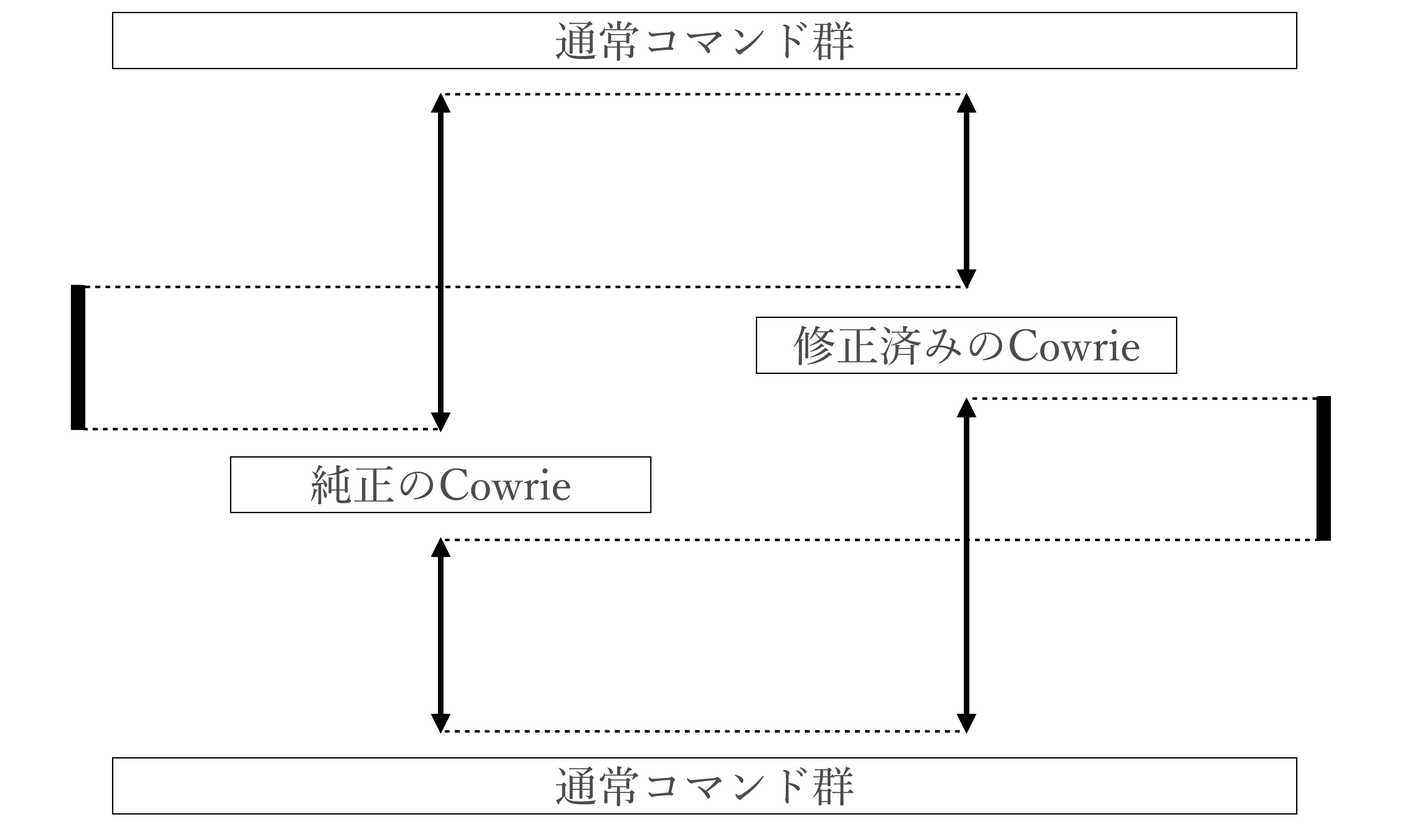
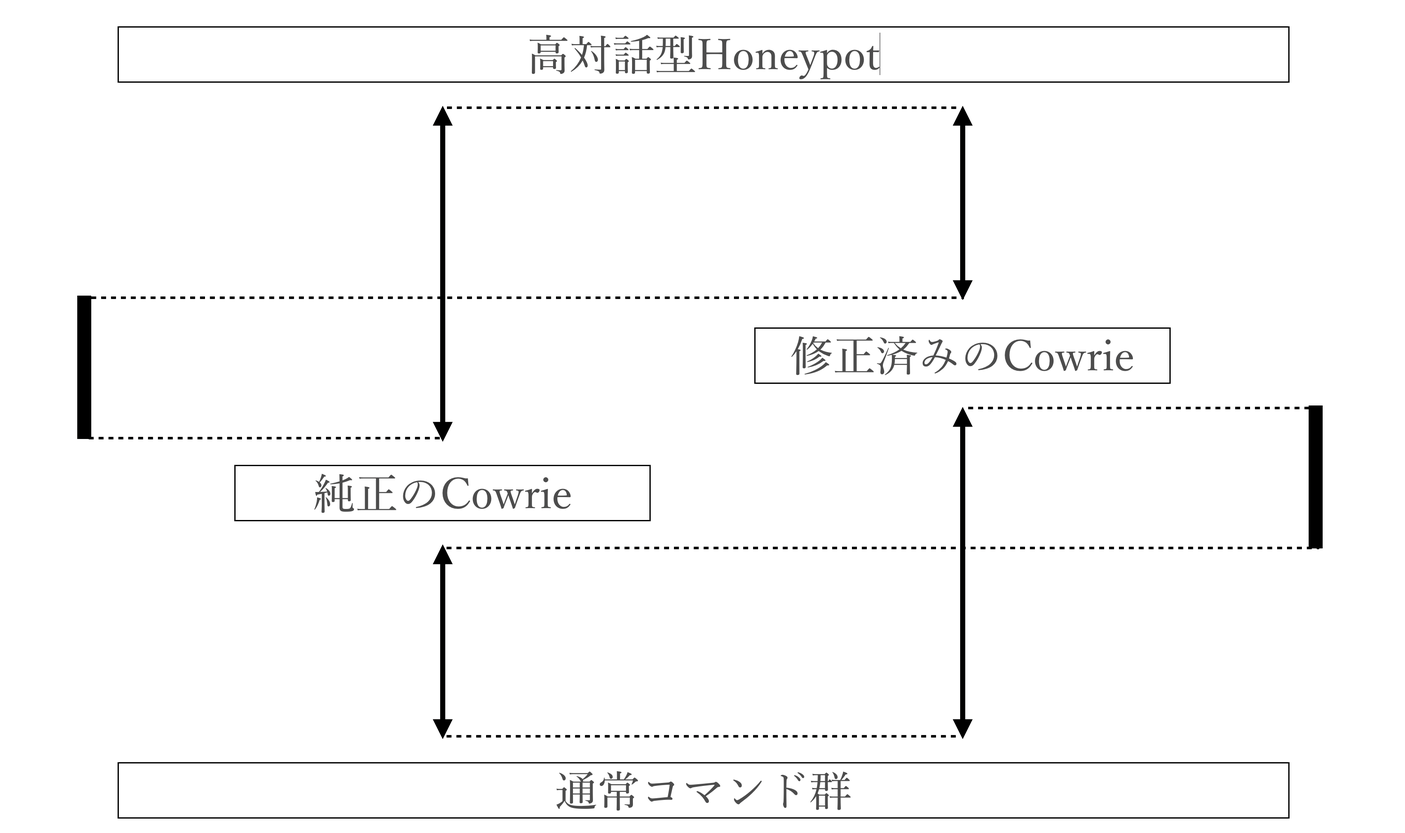
仮綴done.

Changed region(s): [[0.0311, 0.0, 0.9647, 0.9866]]

diff --git a/src/7_eval.tex b/src/7_eval.tex
@@ -6,8 +6,8 @@
 \section{予備実験}
 \label{eval:first}
 
-\subsection{概要}
-\label{eval:abst}
+%\subsection{概要}
+%\label{eval:abst}
 SSHの低対話型HoneypotであるCowrieはコマンドの実装数が少なく，Cowrie特有の異常な挙動が多い．そのため，侵入者にHoneypotであると検知されることで，本来実際のOSへの攻撃であれば取れるはずであった侵入ログが取れない問題がある．また，収集ログを分析する際に，これまで用いられてきた"危険なコマンド"としてインデックスを作り，それらを危険なコマンドとしてパターンマッチングする手法では，今後出現してくる様々なコマンドパターンなどに対応できない．\\
 予備実験では，Cowrieはコマンドの実装数が少なく，Cowrie特有の異常な挙動が多いため，コマンドの追加実装を行い，Cowrie特有の異常な挙動を修正した．実装を施していない純正のCowrieとCowrieにBusyBoxに含まれるコマンドを実装した修正済みのCowrieの両方でコマンドログの収集を行い，比較することで，収集ログのパターンの変化を観測できるのではないかと考えた．評価として収集した二つのログをSkip-gramモデルを用いてスコアリングし，どちらがより多くのコマンドログのパターンを収集できているのかを検証した．\\
 その結果，より多くのコマンドパターンを取れたのがCowrieにBusyBoxに含まれるコマンドを実装した修正済みのCowrieであるということが明らかとなった．
@@ -26,12 +26,12 @@ SSHの低対話型HoneypotであるCowrieはコマンドの実装数が少なく
 
 \subsection{評価}
 \label{eval:eval}
-実装を施していない純正のCowrieとCowrieにBusyBoxに含まれるコマンドを実装した修正済みのCowrieの両方で侵入ログの収集を行い，Word2vecのSkip-Gram Modelにより次のコマンドの予測，スコアリングを行い比較を行うことで，差異を評価した．スコアリングでは，あるコマンドが実行された時に次のコマンドの出やすさを予測したため，次に実行されるコマンドがスコアとして高い数値を出せばそのコマンドパターンがパターンとして存在しやすいもであることを示す．予備実験の評価に関しては第7章の評価で一部説明している．
-本研究の評価と違う評価手法としては，モデル化を純正のHoneypotにBusyBoxに含まれるコマンドを実装したものしか行っていないため，実際のOSに近いログが取れたことが証明できておらず，比較する対象が少なかった．
+実装を施していない純正のCowrieとCowrieにBusyBoxに含まれるコマンドを実装した修正済みのCowrieの両方で侵入ログの収集を行い，Word2vecのSkip-Gram Modelにより次のコマンドの予測，スコアリングを行い比較を行うことで，差異を評価した．スコアリングでは，あるコマンドが実行された時に次のコマンドの出やすさを予測したため，次に実行されるコマンドがスコアとして高い数値を出せばそのコマンドパターンがパターンとして存在しやすいものであることを示す．予備実験の評価に関しては第7章の評価で一部説明している．
+本研究の評価と評価手法の違いは，モデル化を純正のHoneypotにBusyBoxに含まれるコマンドを実装したものしか行っていないため，実際のOSに近いログが取れたことが証明できておらず，比較する対象が少なかった．
 
 \subsection{結果}
 \label{eval:conc}
-SSHの低対話型Honeypotの稼働期間は12/10から2/1(54日間)で，収集できたものとしてコネクション数，パターン数，コマンド数を以下の図3に記す．
+SSHの低対話型Honeypotの稼働期間は12/10から2/1(54日間)で，収集できたものとしてコネクション数，パターン数，コマンド数を以下の図6.1に記す．
 
 \begin{figure}[H]
     \centering
@@ -40,7 +40,7 @@ SSHの低対話型Honeypotの稼働期間は12/10から2/1(54日間)で，収集
     \label{fig:evo}
 \end{figure}
 
-また，モデル化を行い純正のCowrieとCowrieにBusyBoxに含まれるコマンドを実装した修正済みのCowrieのスコアリングを行なった結果を以下の図4に記す．
+また，モデル化を行い純正のCowrieとCowrieにBusyBoxに含まれるコマンドを実装した修正済みのCowrieのスコアリングを行なった結果を以下の図6.2に記す．横軸はコマンド拡張を行なったHoneypotか素のHoneypotであるかを示している．縦軸は予備実験の評価手法によって算出されたコマンドの表れやすさを数値化したものであり，数値が高くなればのコマンドパターンがパターンとして存在しやすいものであることを示している．予備実験ではコマンドの拡張実装をしたものの方がコマンドパターンとして存在しにくいものを観測できたという結果になった．
 
 \begin{figure}[H]
     \centering
@@ -55,7 +55,7 @@ SSHの低対話型Honeypotの稼働期間は12/10から2/1(54日間)で，収集
 \section{評価手法}
 \label{eval:eval}
 
-本実験システムの評価として，~\ref{appr:YotenForProblem}節で述べた要件に対して評価を行う．\\
+本研究の仮説の検証手法としての評価として，~\ref{appr:YotenForProblem}節で述べた要件に対して評価を行う．\\
 予備実験では，素の低対話型Honeypotよりも，コマンドを拡張したHoneypotの方がコマンドパターンが多く収集できることを示した．本研究では拡張したHoneypotで収集したコマンドログが，どれほど高対話型Honeypotで収集したコマンドログに近似したのかを評価した．\\
 本研究では，以下の三種類のHoneypotを設置する．\\
 1． 広く利用されているSSHの低対話型Honeypot\\
@@ -64,10 +64,9 @@ SSHの低対話型Honeypotの稼働期間は12/10から2/1(54日間)で，収集
 
 これ以降，1．の広く利用されているSSHの低対話型Honeypotのことを”純正の低対話型Honeypot” ， 2．の実際のShellには実装されているが，1．のHoneypotで未実装のコマンドを実装したHoneypotのことを"修正済みの低対話型Honeypot" ， 3．の広く利用されている高対話型Honeypotのことを"高対話型Honeypot"と呼ぶこととする．\\
 
-以上3つの純正のHoneypot，修正済みのHoneypot，高対話型Honneypotのそれぞれで侵入ログを収集する．\\
+%以上3つの純正のHoneypot，修正済みのHoneypot，高対話型Honneypotのそれぞれで侵入ログを収集する．\\
 
-また予備実験では，純正のHoneypotに実装されていないコマンドで悪意のある侵入者が使うようなコマンドを実装し，純正のHoneypotで取れた侵入者の実行コマンドログと，修正済みのHoneypotの侵入者の実行コマンドログを比較することで，修正済みのHoneypotの方がコマンドパターンとして多く収集できることを示した．\\
-予備実験における収集ログの比較の概念図を図6に示す．
+また予備実験では，純正のHoneypotに実装されていないコマンドで悪意のある侵入者が使うようなコマンドを実装し，純正のHoneypotで取れた侵入者の実行コマンドログと，修正済みのHoneypotの侵入者の実行コマンドログを比較することで，修正済みのHoneypotの方がコマンドパターンとして多く収集できることを示した．予備実験における収集ログの比較の概念図を図6.3に示す．
 
 \begin{figure}[H]
     \centering
@@ -76,8 +75,7 @@ SSHの低対話型Honeypotの稼働期間は12/10から2/1(54日間)で，収集
     \label{fig:evo}
 \end{figure}
 
-この予備実験では評価として何の追加実装も施していないSSHの低対話型Honeypotで取れた侵入者の実行コマンドログと追加実装を施したSSHの低対話型Honeypotの侵入者の実行コマンドログとを比較したのに対して，本件研究の評価手法では，純正のHoneypotで取れた侵入者の実行コマンドログと修正済みのHoneypotの侵入者の実行コマンドログをと高対話型Honeypotの侵入者の実行コマンドログを比較することで，修正済みのHoneypotの侵入者の実行コマンドログが実際のShellの挙動にどれほど近似したのかを評価した．\\
-予備実験における収集ログの比較の概念図を図7に示す．
+この予備実験では評価として何の追加実装も施していないSSHの低対話型Honeypotで取れた侵入者の実行コマンドログと追加実装を施したSSHの低対話型Honeypotの侵入者の実行コマンドログとを比較したのに対して，本件研究の評価手法では，純正のHoneypotで取れた侵入者の実行コマンドログと修正済みのHoneypotの侵入者の実行コマンドログをと高対話型Honeypotの侵入者の実行コマンドログを比較することで，修正済みのHoneypotの侵入者の実行コマンドログが実際のShellの挙動にどれほど近似したのかを評価した．予備実験における収集ログの比較の概念図を図6.4に示す．
 
 \begin{figure}[H]
     \centering
@@ -86,23 +84,23 @@ SSHの低対話型Honeypotの稼働期間は12/10から2/1(54日間)で，収集
     \label{fig:evo}
 \end{figure}
 
-図6，と図7で示したように，取れた収集ログを比較することでいかに高対話型Honeypotに近似できたのか検証する．
+%図6，と図7で示したように，取れた収集ログを比較することでいかに高対話型Honeypotに近似できたのか検証する．
 
 
-\subsection{評価手法の実装の提案}
+\subsection{コマンドログのスコアリング手法の実装の提案}
 \label{eval:implsuge}
 コマンドログの比較を行う手法は多く存在する．例えば評価基準として，あるコマンドが実行された時に，そのコマンドは危険であるとしたブラックリストを作成するパターンマッチングの手法がある．また，攻撃であるとされたコマンドを~\ref{tech:Markov}で説明したマルコフモデルで学習させることで，攻撃性を表現する手法がある．
 しかしパターンマッチングであれば静的解析であるので未知の攻撃に対応ができず，マルコフモデルであれば現在の状態だけに依存して次の状態への推移確率が決まるので，未知の特徴量を無視してしまうので，いずれも未知の攻撃に対応できない．
 しかし，~\ref{tech:tokei}で説明した意味解析をコマンドログに導入することで，コマンド名が別でも同じような内容のコマンドを実行しようとした時に，それが同じような内容であることを検知できる自然言語処理における意味解析のニューラルネットワークのモデルを評価基準とすることで未知の攻撃にも対応できる．
 そのため，本研究では自然言語処理における意味解析のニューラルネットワークのモデルを評価基準とした．
 
-\subsection{評価手法の実装}
+\subsection{機械学習を用いたコマンドログのスコアリング}
 \label{eval:impl}
 本研究では，評価基準となる，自然言語処理における意味解析のニューラルネットワークのモデルとしてWord2vecのskip-gramモデルを採用した．
 純正の低対話型Honeypotで収集した侵入ログでskip-gramモデルの隠れ層の重みを学習させ(これをモデル1
 とする)，同様にして高対話型Honeypotで収集した侵入ログもskip-gramモデルの隠れ層の重みを学習させる(これをモデル2とする)．次に修正済みのHoneypotで収集したログをセッション開始からセッション終了までに打たれたコマンドごとに(以降これを1セッションごとと呼ぶ)モデル1とモデル2のそれぞれに入力していき，出力された数値aを活性化関数としてソフトマックス関数をかけることで，0≦a≦1の範囲を取るようにし確率的な数値として出力することでスコアリングを行う．このため入力に対して多数存在する出力を全てを合計すると1になる．
 純正の低対話型Honeypotや高対話型Honeypotの収集ログをモデル化する際、入力層として収集ログのコマンドの入力に対してそのコマンドの周辺のコマンドを出力として与えることでこれを学習させる．\\
-例えば3つのコマンドが打たれたとしたとしたものを以下のプログラム\,3に示す．
+例えば3つのコマンドが打たれたとしたとしたものを以下のプログラム\,6.1に示す．
 
 \vspace{5mm}
 %\lstnewenvironment{mylisting}[1][]
@@ -128,7 +126,7 @@ SSHの低対話型Honeypotの稼働期間は12/10から2/1(54日間)で，収集
 
 モデルを構築する際には"free"コマンドを入力にした時に，出力として"uname"コマンド"ps"コマンドを用意しておくことで，freeが入力として与えられた時に他2つの出力される周辺のコマンドが出力する確率が高くなるようにする．また，実装としては周辺語をどこまで広げるのかはパラメータとしてwindow sizeで与えることができ，上記の例の周辺語は"1"であり，window sizeを"2"にすればモデル化する際に出力層に与えられる数は4つとなる．
 
-以下の図8にモデル化のフローを示す．
+以下の図6.5にモデル化のフローを示す．
 \vspace{10mm}
 \begin{figure}[H]
     \centering
@@ -139,7 +137,7 @@ SSHの低対話型Honeypotの稼働期間は12/10から2/1(54日間)で，収集
 \vspace{10mm}
 また，このようにして純正の低対話型Honeypotの収集ログと高対話型Honeypotの収集ログに対して各々のモデルを構築する．次にこのモデルに対して，修正済みのHoneypotで収集したログを入力して，確率的にスコアリングしていくことで数値を出力する．\\
 
-以下にこのモデルを使用した時の入力から出力のフローを図9を示す．
+以下にこのモデルを使用した時の入力から出力のフローを図6.6を示す．
 
 \begin{figure}[H]
     \centering

diff --git a/src/1_intr.tex b/src/1_intr.tex
@@ -9,14 +9,14 @@
 \label{intr:back}
 PCの普及やIoTデバイスのシステム高度化により，高度な処理系を組むことが可能になった．これによりデバイス上にLinux系などのOSが搭載された機器が広く人々に使われるようになった．また，Linux系OSにリモートログインする手法としてSSHがある．これを用いて不正に侵入する攻撃が行われている．
 
-\section{honeypot}
+\subsection{honeypot}
 \label{intr:honey}
  侵入された際に侵入者がどのような挙動をしているのかを知る手段として，Honeypotがある．これは実際のOSを用いたり，Shellの擬似的な挙動をアプリケーション上で実現し，敢えてSSHで侵入しやすいような環境を作ることで，侵入者にログイン試行に成功したと検知させ，その際に実行したコマンドのログを収集する．
 
 \section{本研究の問題と仮説}
 \label{intr:prob}
 SSHのHoneypotは大きく二種類に分けることができ，一つは低対話型Honeypot，もう一つは高対話型Honeypotである．低対話型Honeypotは実際のShellの挙動をエミュレートしたアプリケーションである．\\
-高対話型Honeypotは実際の機器を設置し，その中に侵入させログを収集する．その設置時には他のホストに攻撃できないようにネットワークの設定や，rootの権限が取られないようにuser権限の設定を適切に行う．高対話型Honeypotは低対話型Honeypotと比較すると，Honeypotへの侵入者が実行できるコマンドが多く，挙動も本物のOSと差異が極めて少なく，侵入先がHoneypotであると極めて検知しされにくい．そのため，高精度な攻撃ログを取得することができる．しかし，Honeypotとして適切な設定を行なったOSが，OS自体の新たな脆弱性を突かれることで，踏み台にされ他のホストに攻撃をしたりウイルスに犯されてしまうなどの危険を孕んでいる．そのため，設置コストが高く普及率も非常に低い．\cite{highinthoney}\\一方で低対話型Honeypotはアプリケーションであるため，root権限を取られるような危険が極めて少なく，アプリケーション内での脆弱性に限った問題しか存在しない．そのため設置コストが低く，比較的誰でも安全に設置できるため，普及率が高い．しかし，あくまでエミュレーションを行なったアプリケーションであるため，実際のShellとは異なる挙動や，Honeypotに特有な挙動をしてしまうことがある．そのため，設置したHoneypotに侵入した悪意のあるユーザーに侵入先がHoneypotであると検知されてしまう可能性がある．\\
+高対話型Honeypotは実際の機器を設置し，その中に侵入させログを収集する．その設置時には他のホストに攻撃できないようにネットワークの設定や，rootの権限が取られないようにuser権限の設定を適切に行う．高対話型Honeypotは低対話型Honeypotと比較すると，Honeypotへの侵入者が実行できるコマンドが多く，挙動も本物のOSと差異が極めて少なく，侵入先がHoneypotであると極めて検知しされにくい．そのため，高精度な攻撃ログを取得することができる．しかし，Honeypotとして適切な設定を行なったOSが，設置後に発見された新たなOSの脆弱性を突かれることで，踏み台にされ他のホストに攻撃をしたりウイルスに犯されてしまうなどの危険を孕んでいる．そのため，設置コストが高く普及率も非常に低い．\cite{highinthoney}\\一方で低対話型Honeypotはアプリケーションであるため，root権限を取られるような危険が極めて少なく，アプリケーション内での脆弱性に限った問題しか存在しない．そのため設置コストが低く，比較的誰でも安全に設置できるため，普及率が高い．しかし，あくまでエミュレーションを行なったアプリケーションであるため，実際のShellとは異なる挙動や，Honeypotに特有な挙動をすることがある．そのため，設置したHoneypotに侵入した悪意のあるユーザーに侵入先がHoneypotであると検知されてしまう可能性がある．\\
 本研究では低対話型Honeypotに着目する．低対話型で実際の攻撃ログに近いログを収集するには，先述のHoneypotであることの検知を回避する必要がある．そこで本研究では，低対話型に実装されているコマンドの出力を，実際のShellに近似することで検知を回避できるのではないかと考えた．
 
 \section{提案手法の実装}
@@ -92,9 +92,9 @@ SSHのHoneypotは大きく二種類に分けることができ，一つは低対
 
 ~\ref{tech}章では，本研究の要素技術となるShellとHoneypotと自然言語処理について整理する．
 ~\ref{appr}章では，本研究における問題の定義と，解決するための要件，仮説について説明する．
-~\ref{prex}章では，本研究にあたっての事前実験の概要と結果を述べる．
+%~\ref{prex}章では，本研究にあたっての事前実験の概要と結果を述べる．
 ~\ref{meth}章では，本提案手法について解説する．
-~\ref{impl}章では，Honeypotの拡張についての実装方法や実装例について述べる．
+~\ref{impl}章では，本研究の事前実験やHoneypotの拡張についての実装方法や実装例について述べる．
 ~\ref{eval}章では，求められた課題に対しての評価を行い，考察する．
 ~\ref{rela}章では，関連研究を紹介し，本研究との比較を行う．
 ~\ref{conc}章では，本研究のまとめと今後の課題，展望についてまとめる．

diff --git a/src/abstract_english.tex b/src/abstract_english.tex
@@ -13,7 +13,7 @@ by Command Extension of low-interaction honeypot\\
 ~ \\
 \renewcommand{\baselinestretch}{0.9}
 I was able to make high processing system, and a moving apparatus is wide, and the OS's such as the Linux system came to be in this way used for people on a device, and, meanwhile, one's apparatus is stepped over by an unjust invasion of SSH, and I am attacked to the network apparatus of the third party from an apparatus of oneself by the spread of PCs and the system advancement of the IoT device, and a problem made in the environment that a virus and a back door are installed, and is carried out a virus an apparatus of oneself illegally occurs.
-Let an intruder detect it by making the environment that there is ,Honeypot as a window what kind of ways an intruder behaves when was invaded, and is easy to invade it daringly in SSH when succeeded in a login trial, and Honeypot which collect the log of the command that carried out on this occasion, and emulated behavior of Shell now again is wide, and is used, and there are few commands that this Honeypot can carry out; as a result of being implemented, and therefore being detected by an intruder to Honeypot when invasion ahead was Honeypot, and expanding the command of Honeypot by the there prior experiment, and having compared the log that collected invasion log in Honeypot which expanded Honeypot and the command that did not expand, and collected by using a probabilistic calculation method, with Honeypot which expanded Honeypot and the command that did not expand, collected invasion log more in Honeypot using the real OS, and invasion log of Honeypot which showed that could acquire a pattern of the command practice log of more intruders, and expanded the command in this study used semantic analysis of the natural language processing for the real OS in the invasion log of these three how to show approximation したのかをを to invasion log when was invaded of unjust SSH, and evaluated a semantically thing nearby in invasion log than the invasion log that collected in Honeypot which the invasion log that collected in Honeypot which expanded because a vector expressed one one meaning of the command did not expand in Honeypot using the real OS.
+Let an intruder detect it by making the environment that there is ,Honeypot as a window what kind of ways an intruder behaves when was invaded, and is easy to invade it daringly in SSH when succeeded in a login trial, and Honeypot which collect the log of the command that carried out on this occasion, and emulated behavior of Shell now again is wide, and is used, and there are few commands that this Honeypot can carry out; as a result of being implemented, and therefore being detected by an intruder to Honeypot when invasion ahead was Honeypot, and expanding the command of Honeypot by the there prior experiment, and having compared the log that collected invasion log in Honeypot which expanded Honeypot and the command that did not expand, and collected by using a probabilistic calculation method, with Honeypot which expanded Honeypot and the command that did not expand, collected invasion log more in Honeypot using the real OS, and invasion log of Honeypot which showed that could acquire a pattern of the command practice log of more intruders, and expanded the command in this study used semantic analysis of the natural language processing for the real OS in the invasion log of these three how to show approximation to invasion log when was invaded of unjust SSH, and evaluated a semantically thing nearby in invasion log than the invasion log that collected in Honeypot which the invasion log that collected in Honeypot which expanded because a vector expressed one one meaning of the command did not expand in Honeypot using the real OS.
 \renewcommand{\baselinestretch}{1.0}
 
 ~ \\

diff --git a/src/9_conc.tex b/src/9_conc.tex
@@ -9,7 +9,7 @@
 
 \section{本研究の課題と展望}
 本節では，提案手法の課題とその展望を述べる．SSHの低対話型Honeypotに実装するコマンドについて，ディストリビューションごとに実装コマンドが異なるが，今回はBusyBoxをそのままPythonで実装した．したがって，低対話型Honeypotがエミュレーションしているディストリビューションで実装されているコマンドは必要条件しか満たしていない．また，~\ref{appr:problemofSshLowHoneypot}で述べた通り，
-低対話型Honeypotには本研究と着目した問題以外にも，SSHでのセッション確立におけるレイテンシの問題や，HoneypotのUsernameの問題も存在する．しかし本研究ではこれらを検証していないため，本物のShellの挙動を完全にエミュレートできたわけではないため，侵入者からHoneypotであることを検知されてしまう可能性はまだ残されている．
+低対話型Honeypotには本研究と着目した問題以外にも，SSHでのセッション確立におけるレイテンシの問題や，HoneypotのUsernameの問題も存在する．しかし本研究ではこれらを扱わず，本物のShellの挙動を完全にエミュレートできていないため，侵入者からHoneypotであることを検知されてしまう可能性はまだ残されている．
 
 \subsection{ディストリビューションごとの実装コマンド}
 ディストリビューションごとの実装コマンドについてはバージョンの問題にも依存する．しかし，OSのリリースにはLTS(Long Term Support)があり，広く使われているOSでの実装コマンドの検証は十分に可能である．

diff --git a/src/6_impl.tex b/src/6_impl.tex
@@ -89,7 +89,7 @@ TBD
 \subsection{純正のHoneypotで未実装のコマンドの実装}
 \label{impl:ImplBusyBox}
 本研究において純正のHoneypotはCowrie\cite{cowrie}を使用し，実際のShellには実装されているが，純正のHoneypotで未実装のコマンドについてはBusyBox\cite{busybox}に含まれるコマンドの実装を行なった．2.1.1.2や2.2.2で紹介した通り，BusyBoxに含まれるコマンドの種類が219ある中で，Cowrieの実装コマンド数は38しか存在しない．この差分をPythonで実装する．\\
-実装例は以下の通り．(付録にて例で紹介できなかったコマンドを掲載する)\\
+また実装したコマンド一覧を表hogeに示す．(付録にて例で紹介できなかったコマンドを掲載する)\\
 
 
 %%% Local Variables:
